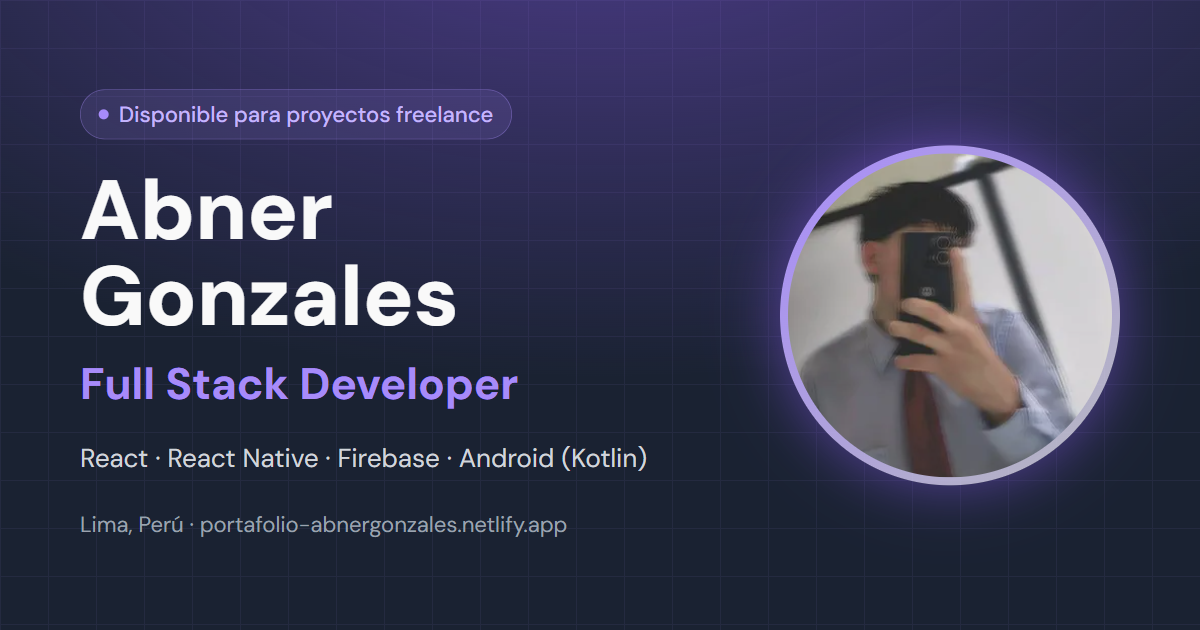
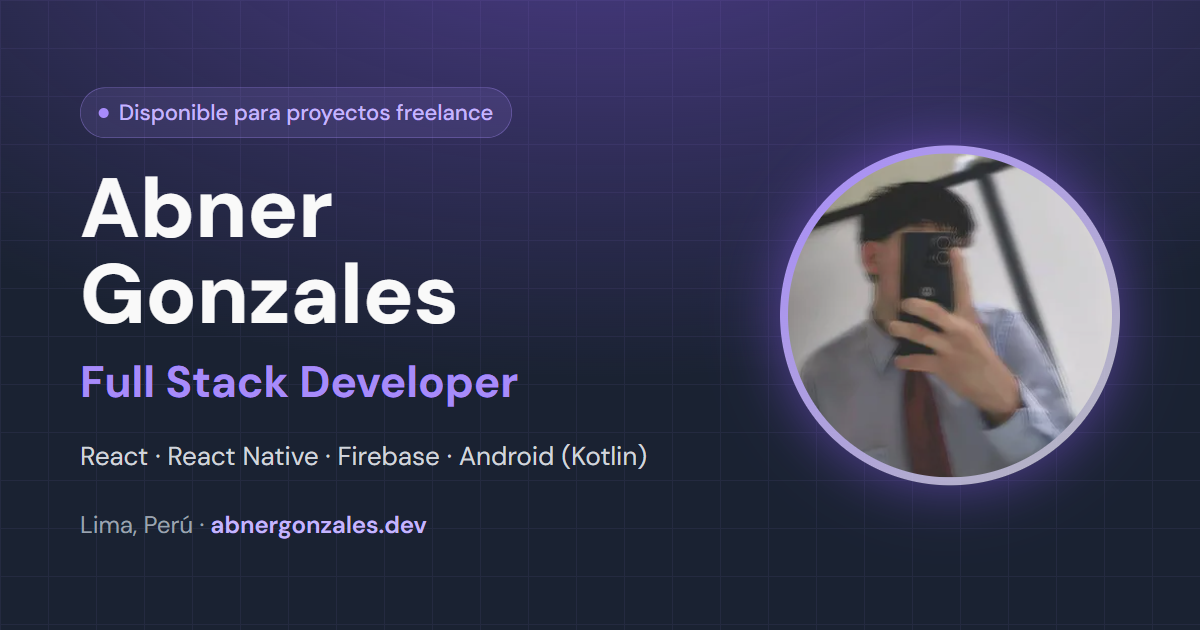
feat(seo): usar el dominio propio abnergonzales.dev
- astro.config.mjs: site apunta a https://abnergonzales.dev, por lo que
  la URL canónica, los enlaces hreflang, og:url, og:image y los datos
  estructurados usan el dominio propio
- og-image.png muestra abnergonzales.dev
- Enlace "Ver Demo" del README apunta al dominio propio

diff --git a/README.md b/README.md
@@ -6,7 +6,7 @@
 
 **Full Stack Developer · React · Firebase · Android**
 
-[![Ver Demo](https://img.shields.io/badge/🌐_Ver_Demo-8b5cf6?style=for-the-badge&logoColor=white)](https://portafolio-abnergonzales.netlify.app/)
+[![Ver Demo](https://img.shields.io/badge/🌐_Ver_Demo-8b5cf6?style=for-the-badge&logoColor=white)](https://abnergonzales.dev/)
 [![LinkedIn](https://img.shields.io/badge/LinkedIn-0077B5?style=for-the-badge&logo=linkedin&logoColor=white)](https://www.linkedin.com/in/abnergonzales7)
 [![GitHub](https://img.shields.io/badge/GitHub-181717?style=for-the-badge&logo=github&logoColor=white)](https://github.com/AbnerGA7)
 
